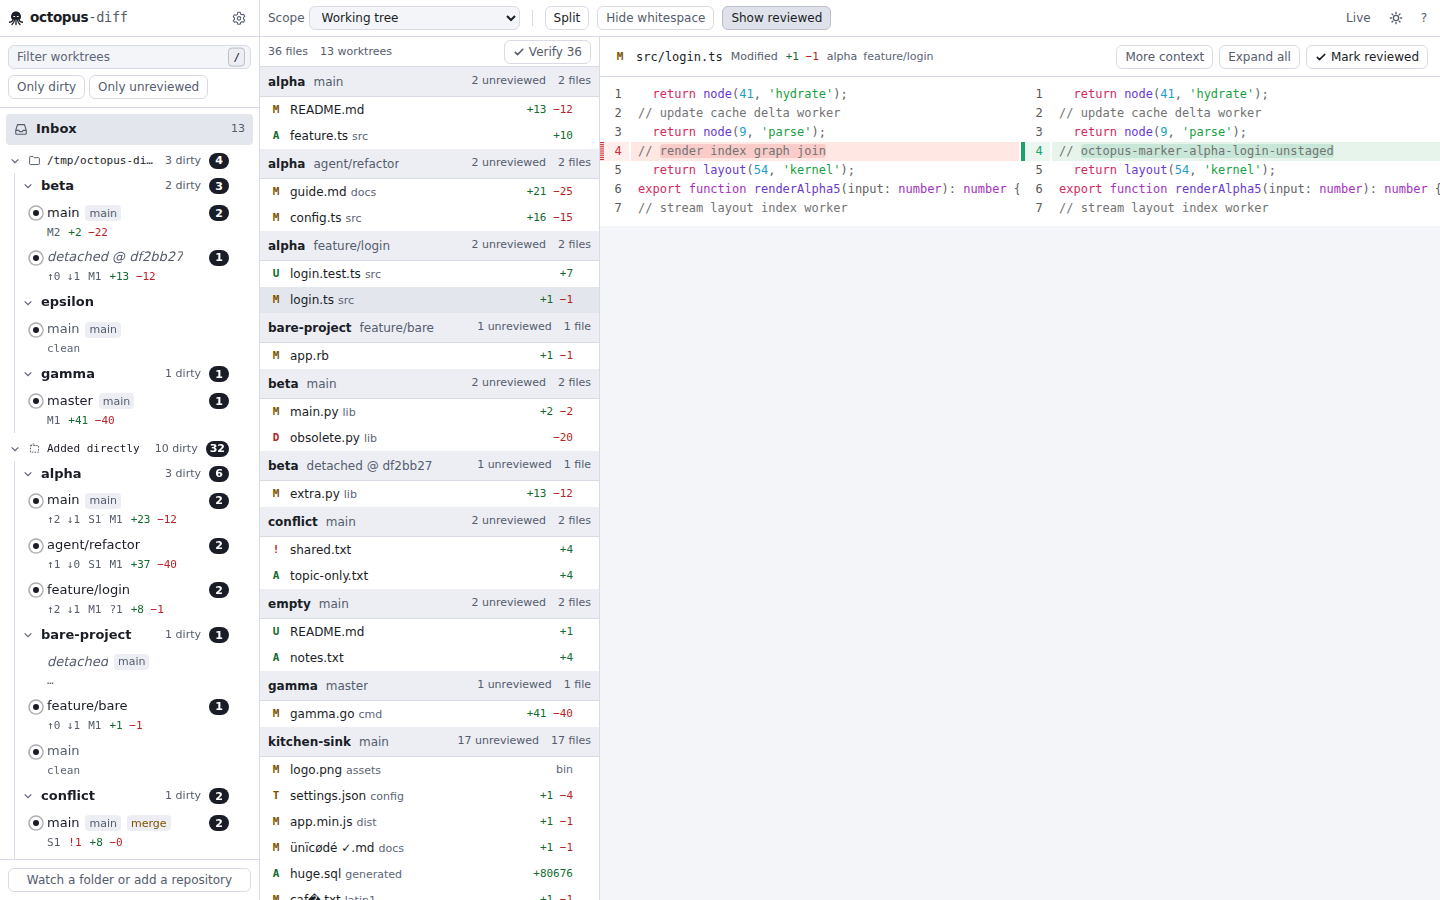
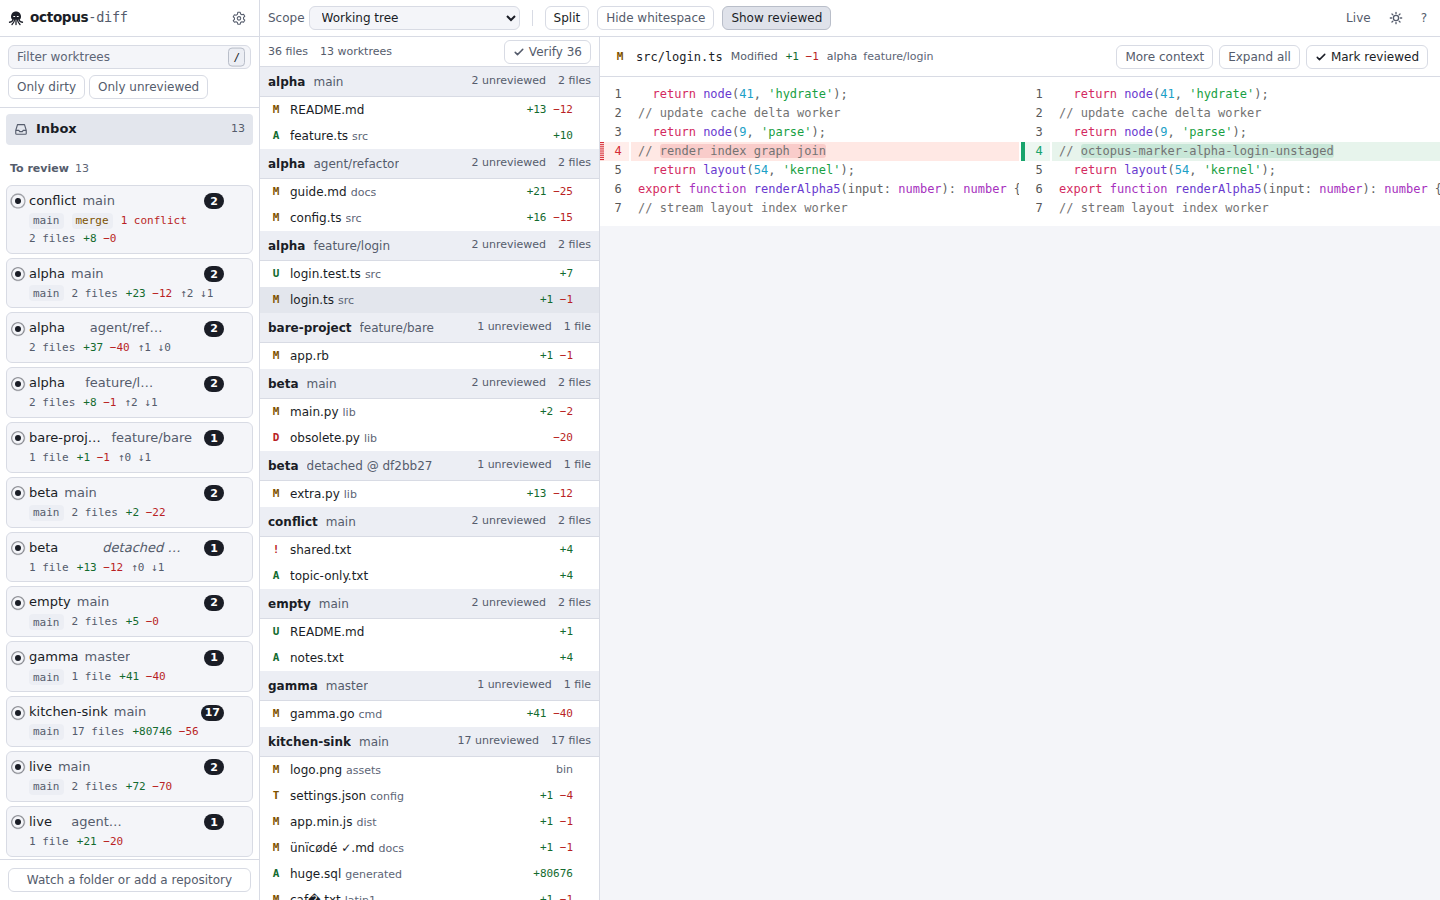
web: cards and settled rows share one keyed list; docs: UX round 3 verification, plan status, README screenshots

Changed region(s): [[0.0, 0.1556, 0.1562, 0.9644]]

diff --git a/apps/web/src/components/Sidebar.tsx b/apps/web/src/components/Sidebar.tsx
@@ -170,114 +170,111 @@ function ReviewOffBadge({ row, className = '' }: { row: WorktreeRow; className?:
   );
 }
 
+/** The facts line of a card: chips, conflicts, files, lines, ahead/behind, or the settled word. */
+function CardFacts({ row }: { row: WorktreeRow }) {
+  const { summary, error } = row;
+  const counts = summary?.counts;
+  const word = settledWord(row);
+  return (
+    <span className="flex flex-wrap items-center gap-x-2 gap-y-0.5 font-mono text-[11px] text-muted">
+      <NameChips row={row} />
+      {counts && counts.conflicted > 0 && (
+        <span className="text-danger">{plural(counts.conflicted, 'conflict')}</span>
+      )}
+      {summary && isDirtySummary(summary) && <span>{plural(summary.changedFiles, 'file')}</span>}
+      {summary && (summary.additions > 0 || summary.deletions > 0) && (
+        <span>
+          <span className="text-add">+{summary.additions}</span>{' '}
+          <span className="text-del">−{summary.deletions}</span>
+        </span>
+      )}
+      {summary &&
+        summary.ahead !== null &&
+        summary.behind !== null &&
+        summary.ahead + summary.behind > 0 && (
+          <span title={`ahead/behind ${summary.aheadBehindRef ?? ''}`}>
+            ↑{summary.ahead} ↓{summary.behind}
+          </span>
+        )}
+      {row.state === 'settled' && word !== 'review off' && word !== 'loading' && (
+        <span className={word === 'missing' || word === 'error' ? 'text-danger' : 'text-faint'}>
+          {word === 'error' && error ? `error: ${error.message}` : word}
+        </span>
+      )}
+      {word === 'loading' && <span className="text-faint">…</span>}
+    </span>
+  );
+}
+
 /**
- * A card: a worktree that wants attention. Two lines: the name (project, branch, chips, the
- * unreviewed count), then the facts (files, lines, ahead/behind, conflicts).
+ * One worktree in the activity list. As a **card** (pinned, blocked or unreviewed): two lines,
+ * the name with the unreviewed count, then the facts. As a **settled row**: one dimmed line, the
+ * name and one word; density is earned by settling. Both variants share the same `<li><button>`
+ * skeleton and live in one keyed list, so a worktree that settles or wakes up keeps its DOM node
+ * (the e2e suite clicks rows while the inbox for a new scope arrives).
  */
-const WorktreeCard = memo(function WorktreeCard({
+const WorktreeItem = memo(function WorktreeItem({
   row,
+  variant,
   selected,
   now,
   onSelect,
   onMenu,
-}: RowProps) {
+}: RowProps & { variant: 'card' | 'settled' }) {
   const { worktree, summary, error } = row;
-  const counts = summary?.counts;
   const active = isRecentlyActive(summary?.updatedAt, now);
-  const dirty = isDirtySummary(summary);
   const word = settledWord(row);
+  const card = variant === 'card';
   return (
-    <li className="group/wt relative">
+    <li className={`group/wt relative ${card ? 'mb-1' : ''}`} data-section={variant}>
       <button
         type="button"
         {...rowAttributes(row, selected, active)}
         title={rowTitle(row)}
         onClick={() => onSelect(worktree.id)}
         onContextMenu={(e) => onMenu(e, row)}
-        className={`flex w-full flex-col gap-0.5 rounded-md border py-1.5 pr-7 pl-[22px] text-left ${
-          selected ? 'border-line-strong bg-selected' : 'border-line bg-canvas hover:bg-hover'
-        }`}
+        className={
+          card
+            ? `flex w-full flex-col gap-0.5 rounded-md border py-1.5 pr-7 pl-[22px] text-left ${
+                selected ? 'border-line-strong bg-selected' : 'border-line bg-canvas hover:bg-hover'
+              }`
+            : `flex w-full items-center gap-1.5 rounded-sm py-1 pr-7 pl-[22px] text-left text-muted hover:text-fg ${
+                selected ? 'bg-selected text-fg' : 'hover:bg-hover'
+              }`
+        }
       >
-        <span className="relative flex min-w-0 items-center gap-1.5">
+        <span className={`relative flex min-w-0 items-center gap-1.5 ${card ? '' : 'flex-1'}`}>
           {active && <span className="od-pulse" aria-hidden="true" />}
           <RowName row={row} />
-          <span className="ml-auto" />
-          {!row.review.enabled && <ReviewOffBadge row={row} />}
-          {row.unreviewed > 0 && (
-            <span className="od-pill shrink-0" title={`${row.unreviewed} unreviewed`}>
-              {row.unreviewed}
-            </span>
+          {card && (
+            <>
+              <span className="ml-auto" />
+              {!row.review.enabled && <ReviewOffBadge row={row} />}
+              {row.unreviewed > 0 && (
+                <span className="od-pill shrink-0" title={`${row.unreviewed} unreviewed`}>
+                  {row.unreviewed}
+                </span>
+              )}
+            </>
           )}
         </span>
-        <span className="flex flex-wrap items-center gap-x-2 gap-y-0.5 font-mono text-[11px] text-muted">
-          <NameChips row={row} />
-          {counts && counts.conflicted > 0 && (
-            <span className="text-danger">{plural(counts.conflicted, 'conflict')}</span>
-          )}
-          {summary && dirty && <span>{plural(summary.changedFiles, 'file')}</span>}
-          {summary && (summary.additions > 0 || summary.deletions > 0) && (
-            <span>
-              <span className="text-add">+{summary.additions}</span>{' '}
-              <span className="text-del">−{summary.deletions}</span>
-            </span>
-          )}
-          {summary &&
-            summary.ahead !== null &&
-            summary.behind !== null &&
-            summary.ahead + summary.behind > 0 && (
-              <span title={`ahead/behind ${summary.aheadBehindRef ?? ''}`}>
-                ↑{summary.ahead} ↓{summary.behind}
+        {card ? (
+          <CardFacts row={row} />
+        ) : (
+          <>
+            {row.pinned && <span className="od-chip">pinned</span>}
+            {!row.review.enabled && <ReviewOffBadge row={row} />}
+            {word !== 'review off' && (
+              <span
+                className={`shrink-0 text-[11px] ${
+                  word === 'missing' || word === 'error' ? 'text-danger' : 'text-faint'
+                }`}
+                title={word === 'error' && error ? error.message : undefined}
+              >
+                {word === 'loading' ? '…' : word}
               </span>
             )}
-          {row.state === 'settled' && word !== 'review off' && word !== 'loading' && (
-            <span className={word === 'missing' || word === 'error' ? 'text-danger' : 'text-faint'}>
-              {word === 'error' && error ? `error: ${error.message}` : word}
-            </span>
-          )}
-          {word === 'loading' && <span className="text-faint">…</span>}
-        </span>
-      </button>
-      <MoreButton
-        label={`Actions for ${row.project.name} ${worktreeLabel(worktree)}`}
-        group="wt"
-        onOpen={(e) => onMenu(e, row)}
-      />
-    </li>
-  );
-});
-
-/** A settled row: one dimmed line, the name and one word. Density is earned by settling. */
-const SettledRow = memo(function SettledRow({ row, selected, now, onSelect, onMenu }: RowProps) {
-  const { worktree, summary, error } = row;
-  const active = isRecentlyActive(summary?.updatedAt, now);
-  const word = settledWord(row);
-  return (
-    <li className="group/wt relative">
-      <button
-        type="button"
-        {...rowAttributes(row, selected, active)}
-        title={rowTitle(row)}
-        onClick={() => onSelect(worktree.id)}
-        onContextMenu={(e) => onMenu(e, row)}
-        className={`flex w-full items-center gap-1.5 rounded-sm py-1 pr-7 pl-[22px] text-left text-muted hover:text-fg ${
-          selected ? 'bg-selected text-fg' : 'hover:bg-hover'
-        }`}
-      >
-        <span className="relative flex min-w-0 flex-1 items-center gap-1.5">
-          {active && <span className="od-pulse" aria-hidden="true" />}
-          <RowName row={row} />
-        </span>
-        {row.pinned && <span className="od-chip">pinned</span>}
-        {!row.review.enabled && <ReviewOffBadge row={row} />}
-        {word !== 'review off' && (
-          <span
-            className={`shrink-0 text-[11px] ${
-              word === 'missing' || word === 'error' ? 'text-danger' : 'text-faint'
-            }`}
-            title={word === 'error' && error ? error.message : undefined}
-          >
-            {word === 'loading' ? '…' : word}
-          </span>
+          </>
         )}
       </button>
       <MoreButton
@@ -637,36 +634,35 @@ export function Sidebar() {
         )}
 
         {totalWorktrees > 0 && model.sidebar.groups.length > 0 && (
-          <>
-            <SectionHeader label="To review" count={model.sidebar.cards.length} />
-            {model.sidebar.cards.length === 0 ? (
-              <p className="px-2 pb-1 text-[11px] text-faint">Nothing to review in this scope.</p>
-            ) : (
-              <ul data-section="cards" className="flex flex-col gap-1">
-                {model.sidebar.cards.map((row) => (
-                  <WorktreeCard key={row.worktree.id} {...rowProps(row)} />
-                ))}
-              </ul>
+          // One list for cards and settled rows (headers are list items), keyed by worktree id:
+          // a row that settles or wakes up moves inside the list instead of remounting.
+          <ul aria-label="Worktrees" className="flex flex-col">
+            <li role="presentation">
+              <SectionHeader label="To review" count={model.sidebar.cards.length} />
+            </li>
+            {model.sidebar.cards.length === 0 && (
+              <li role="presentation" className="px-2 pb-1 text-[11px] text-faint">
+                Nothing to review in this scope.
+              </li>
             )}
-
+            {model.sidebar.cards.map((row) => (
+              <WorktreeItem key={row.worktree.id} variant="card" {...rowProps(row)} />
+            ))}
             {model.sidebar.settled.length > 0 && (
-              <>
+              <li role="presentation">
                 <SectionHeader
                   label="Settled"
                   count={model.sidebar.settled.length}
                   open={settledOpen}
                   onToggle={() => actions.toggleCollapsed(store, SETTLED_SECTION_ID)}
                 />
-                {settledOpen && (
-                  <ul data-section="settled" className="flex flex-col">
-                    {model.sidebar.settled.map((row) => (
-                      <SettledRow key={row.worktree.id} {...rowProps(row)} />
-                    ))}
-                  </ul>
-                )}
-              </>
+              </li>
             )}
-          </>
+            {settledOpen &&
+              model.sidebar.settled.map((row) => (
+                <WorktreeItem key={row.worktree.id} variant="settled" {...rowProps(row)} />
+              ))}
+          </ul>
         )}
 
         {model.sidebar.folders.length > 0 && (

diff --git a/apps/web/test/ux.test.tsx b/apps/web/test/ux.test.tsx
@@ -437,12 +437,12 @@ describe('folder tier, overview and palette', () => {
     const sidebar = screen.getByTestId(TEST_IDS.sidebar);
     const section = (name: string) =>
       [
-        ...(sidebar
-          .querySelector(`[data-section="${name}"]`)
-          ?.querySelectorAll('[data-testid="worktree-item"]') ?? []),
-      ].map((el) => (el as HTMLElement).dataset.branch);
+        ...sidebar.querySelectorAll<HTMLElement>(
+          `li[data-section="${name}"] [data-testid="worktree-item"]`,
+        ),
+      ].map((el) => el.dataset.branch);
     // blocked first (docs-site is mid-rebase with a conflict), then the unreviewed ones in project order
-    expect(section('cards')).toEqual(['', 'feat/auth', 'main', 'fix/cache', 'main']);
+    expect(section('card')).toEqual(['', 'feat/auth', 'main', 'fix/cache', 'main']);
     // settled: clean, verified, review off, missing, error: one word each, no counts
     expect(section('settled')).toEqual([
       'trunk',
@@ -479,7 +479,7 @@ describe('folder tier, overview and palette', () => {
       within(worktreeItem('fix/cache').parentElement as HTMLElement).getByLabelText(/^Actions for/),
     );
     fireEvent.click(await screen.findByRole('menuitem', { name: 'Pin to the top' }));
-    await waitFor(() => expect(section('cards')[0]).toBe('fix/cache'));
+    await waitFor(() => expect(section('card')[0]).toBe('fix/cache'));
     expect(store.getState().pinned).toEqual([cacheId]);
     expect(worktreeItem('fix/cache').textContent).toContain('pinned');
 

diff --git a/docs/PLAN.md b/docs/PLAN.md
@@ -1,7 +1,7 @@
 # octopus-diff — Project Plan
 
-> Status: MVP complete (Phases 0–2, 2026-11-08): see `docs/reports/mvp.md`. Phase 3 needs the user. A UX round
-> (identity, themes, settings, bulk review) is in progress on `lead/ux-foundation`, coordinated in `docs/COORDINATION.md` there.
+> Status: MVP complete (Phases 0–2, 2026-11-08): see `docs/reports/mvp.md`. Phase 3 needs the user. UX rounds 1–3
+> (identity, themes, settings, bulk review; two unslop passes; the activity-list sidebar) are done: `docs/reports/ux-*.md`.
 > This file is the source of truth for every session working on the project. If reality disagrees
 > with it, fix the code or update this file and log why in `docs/DECISIONS.md`. Never leave them out of sync.
 
@@ -344,6 +344,13 @@ policy (per worktree / branch / project / folder, ON by default for anything new
 streams, `ux-web` and `ux-daemon`; brief, ownership, behaviour spec, merge plan and acceptance (UX-1…UX-8) are in
 `docs/COORDINATION.md`; decisions in `docs/DECISIONS.md` ("UX round 1"). New contract surface: `packages/contracts/src/settings.ts`,
 routes `/api/settings`, `/api/review-policy`, `/api/review/bulk`, `/api/review/undo`, events `review.bulk` and `settings.changed`.
+
+### Phase 2c — UX rounds 2 and 3 (2026-11-08, user-requested) — done
+
+Round 2: two unslop passes on identity and chrome (`docs/reports/ux-unslop.md`, `ux-unslop-2.md`; DECISIONS #23–#39).
+Round 3: the sidebar became an activity list (cards to review, a settled tail, a projects index, pinning) and review
+status was simplified, after T3 Code's Sidebar V2 and T3 Chat's thread list (`docs/reports/ux-sidebar.md`; DECISIONS
+#40–#46). A folder picker for adding repositories landed in parallel (DECISIONS "Folder picker").
 
 ### Phase 3 — After the MVP (needs user input; do not start autonomously)
 

diff --git a/docs/reports/ux-sidebar.md b/docs/reports/ux-sidebar.md
@@ -41,7 +41,19 @@ worktrees); the Overview, palette and bulk/policy flows unchanged.
 
 ## Verification
 
-Filled in from real runs on this worktree (Node 26.13.0, WSL2); see the end of this file.
+Node 26.13.0, git 2.53.0, WSL2, worktree `~/.t3/worktrees/octopus-diff/ux-sidebar`, after rebasing onto `main` at
+`8a4f259` (folder picker). Real command output:
+
+| Command | Result |
+|---|---|
+| `pnpm check` (lint, typecheck, build, unit tests) | exit 0. `Checked 311 files … No fixes applied`; tests: contracts 71, git-core 126, web **107** (96 before: one sidebar test rewritten, one added, one `J`/`K` expectation updated), fixtures 48, daemon 155, e2e (vitest) 5, cli 139; all passed |
+| `pnpm test:e2e` | **68 passed (2.1 m)**; `read-only proof: 12 control repos, 3130 lock polls, 0 violation(s)`. No e2e spec changed |
+| `pnpm --filter @octopus-diff/e2e screenshots` | 10 README screenshots regenerated from the fixtures (`docs/screenshots/*`) |
+| `pnpm --filter @octopus-diff/web shots` (mock server, `demo` dataset, both brand themes, 1440 and 960 wide) | inspected inbox, worktree, context menu and policy menu; found and fixed the name truncation (branch capped at half the row, chips moved to the facts line) and `↑0 ↓0` noise |
+
+One seam found by the suite and fixed before the final run: with cards and settled rows in two separate lists, a
+worktree whose state changed while the inbox for a new scope arrived was remounted, and `03-scopes` lost the element it
+was about to click (`Element is not attached to the DOM`). Cards and rows now share one keyed list.
 
 ## Decisions
 

diff --git a/docs/DECISIONS.md b/docs/DECISIONS.md
@@ -998,7 +998,9 @@ user: explore a new way of showing the sidebar elements and project grouping, le
 44. **Keyboard and collapse.** `J`/`K` walk the cards first, then the settled tail (DOM order = `sidebar.order`). The tail
     collapses with a chevron (pref `collapsed` gets the id `settled`, next to folder ids) and reopens by itself when the
     selected worktree is in it (a palette jump, `J`/`K`, `n` into a review-off worktree). Folders in the Projects index
-    collapse as before; project rows have no children, so no chevron.
+    collapse as before; project rows have no children, so no chevron. Cards and settled rows are one `<ul>` keyed by
+    worktree id, with the section headers as presentation items: a worktree that settles or wakes up moves inside the
+    list instead of remounting (found by the e2e scopes test, which clicks a row while the inbox for a new scope lands).
 45. **Tests.** `ux.test.tsx`: the folder-tier test now asserts the Projects index (projects under their folder, collapse
     hides project rows) and a new test covers the partition, settling by marks, pinning and the collapsed tail reopening;
     `app.test.tsx`: the `J`/`K` expectation follows the new order (docs-site, then `feat/auth`, both blocked). No e2e
